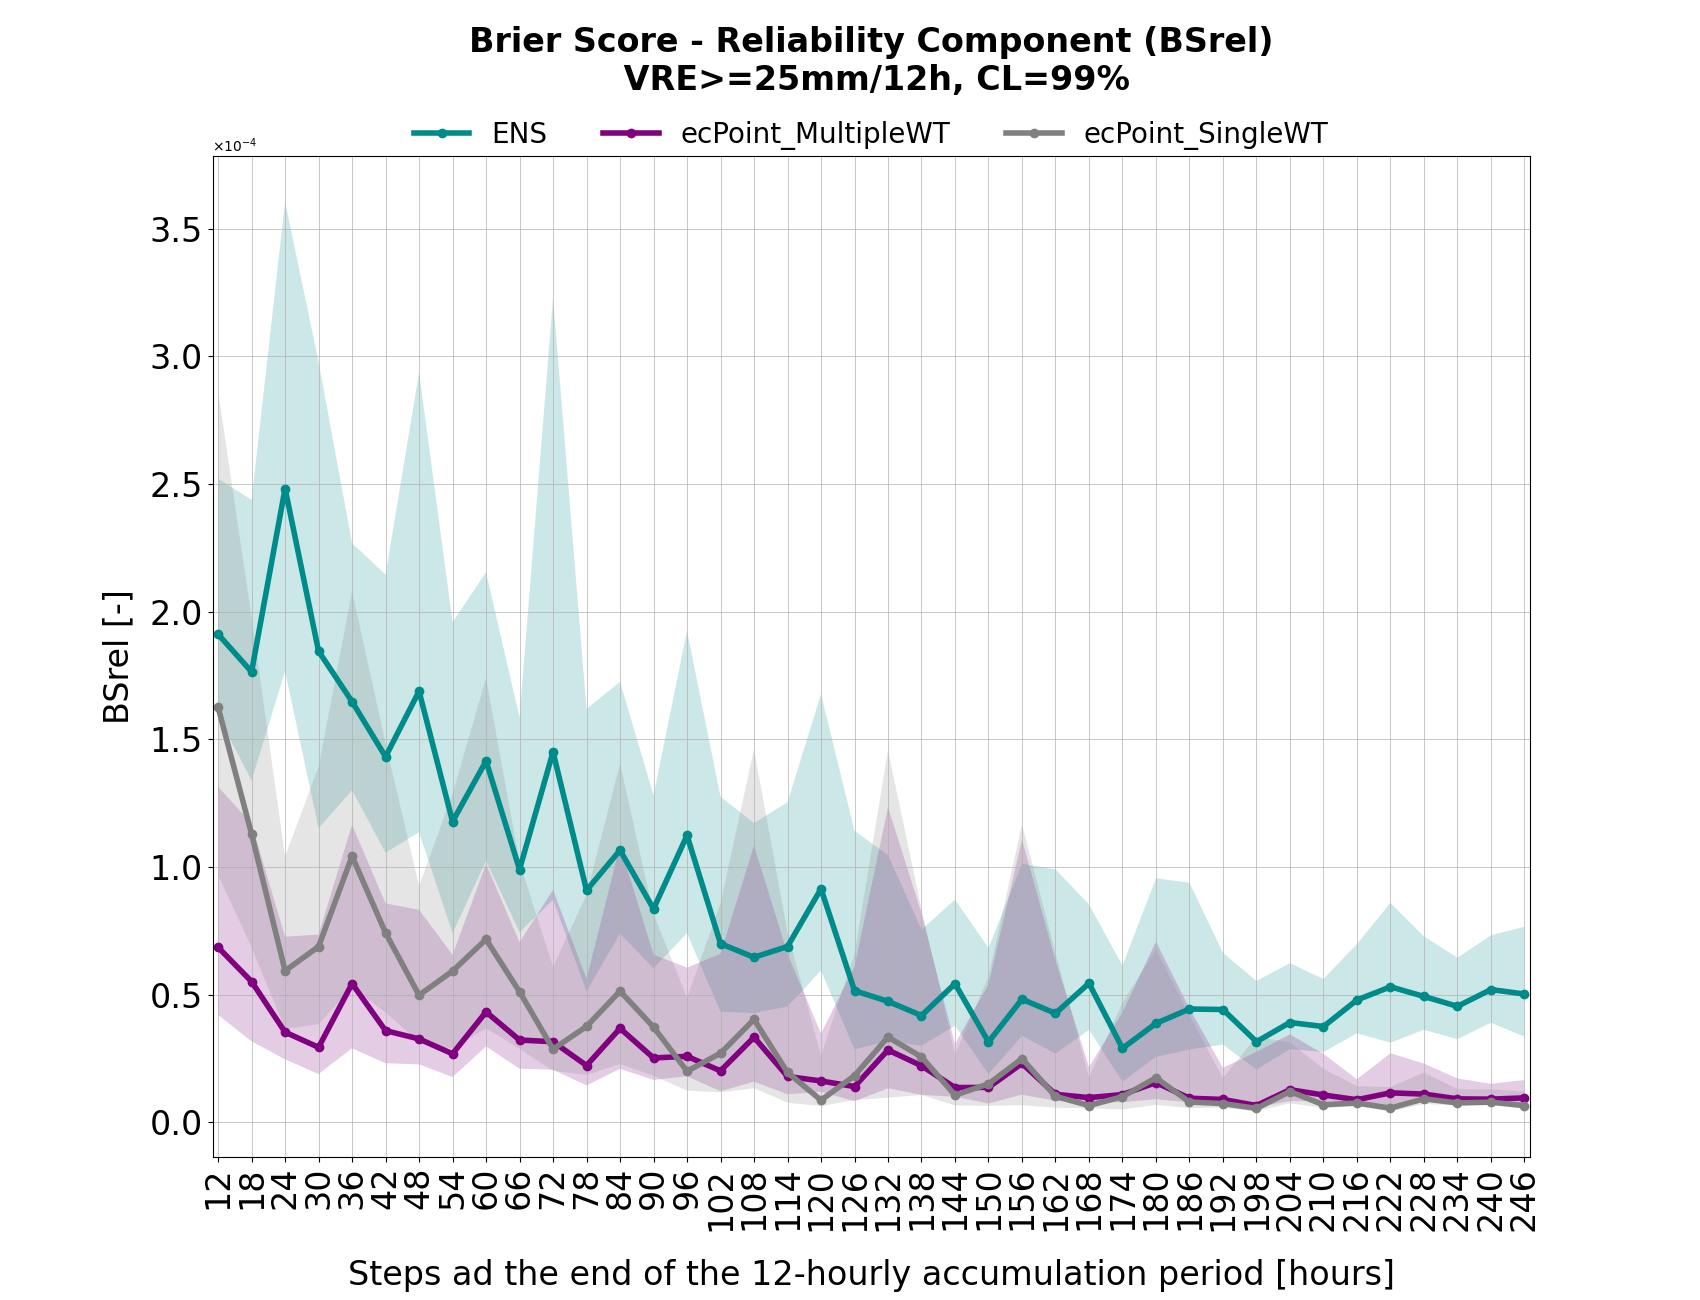
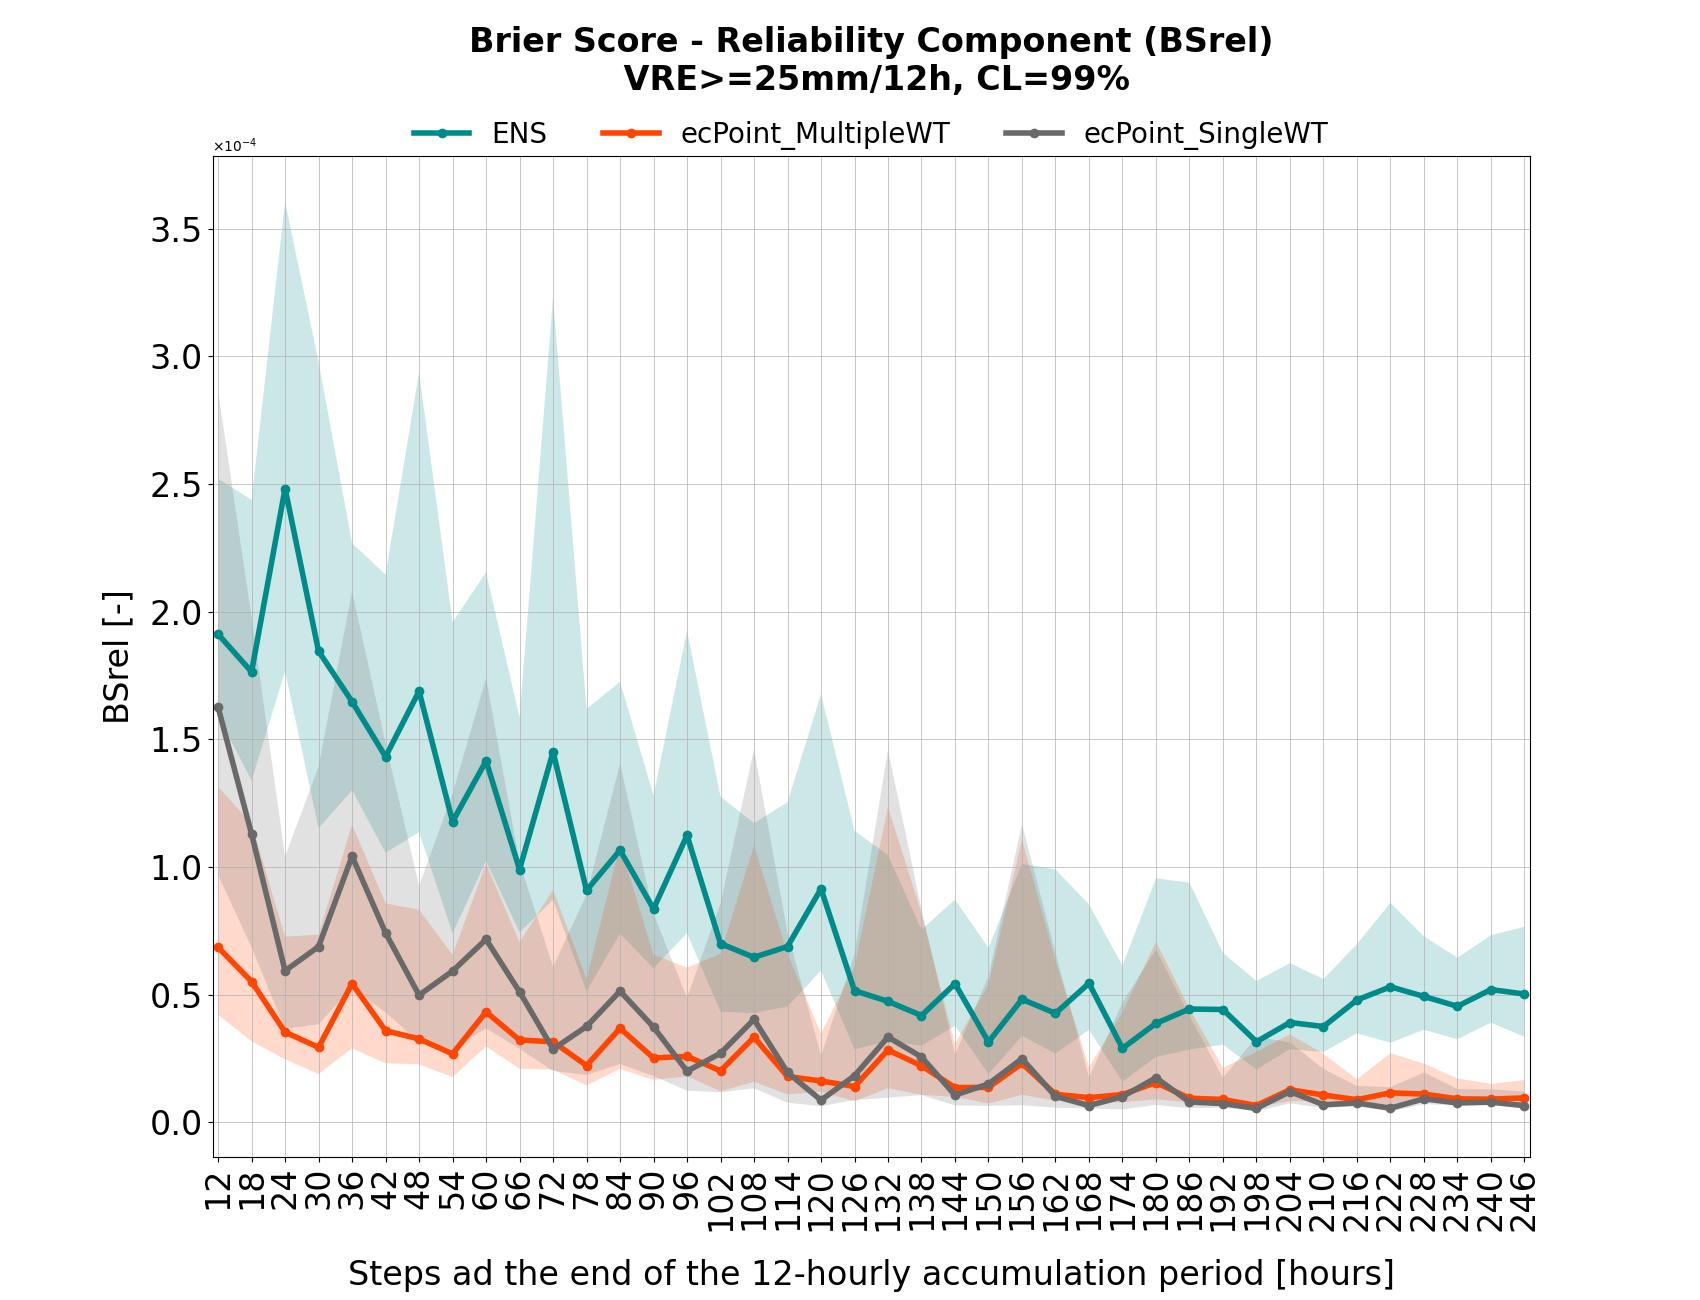
Improved the readibility of the AROC and BSrel plots.

Changed region(s): [[0.1247, 0.6154, 0.9041, 0.8615], [0.3429, 0.0923, 0.3741, 0.1231]]

diff --git a/Scripts/Processed/07_Plot_AROCt_AROCz_CI.py b/Scripts/Processed/07_Plot_AROCt_AROCz_CI.py
@@ -23,7 +23,7 @@ Acc = 12
 VRE_list = [0.2, 10, 25, 50]
 CL = 99
 SystemFC_list = ["ENS", "ecPoint_MultipleWT", "ecPoint_SingleWT"]
-Colour_SystemFC_list = ["darkcyan", "purple", "gray"]
+Colour_SystemFC_list = ["darkcyan", "orangered", "dimgray"]
 Git_repo = "/ec/vol/ecpoint_dev/mofp/Papers_2_Write/ECMWF_TM_Verif_ecPoint_SingleWT"
 DirIN = "Data/Compute/03_BSrel_AROCt_AROCz_BS"
 DirOUT = "Data/Plot/07_AROCt_AROCz_CI"
@@ -68,7 +68,7 @@ for vre in VRE_list:
 
             # Plotting the AROCt and AROCz values with their CI
             ax.plot(StepF, aroc, "o-", color=Colour_SystemFC, label="AROCt, " + SystemFC, linewidth=4)
-            ax.plot(StepF, arocz, "o--", color=Colour_SystemFC, label="AROCz, " + SystemFC, linewidth=2)
+            ax.plot(StepF, arocz, "o--", color=Colour_SystemFC, label="AROCz, " + SystemFC, linewidth=4)
             ax.fill_between(StepF, CI_lower, CI_upper, color=Colour_SystemFC, alpha=0.2, edgecolor="none")
             ax.fill_between(StepF, CIz_lower, CIz_upper, color=Colour_SystemFC, alpha=0.2, edgecolor="none")
 

diff --git a/Scripts/Processed/06_Plot_BSrel_CI.py b/Scripts/Processed/06_Plot_BSrel_CI.py
@@ -24,7 +24,7 @@ Acc = 12
 VRE_list = [0.2, 10, 25, 50]
 CL = 99
 SystemFC_list = ["ENS", "ecPoint_MultipleWT", "ecPoint_SingleWT"]
-Colour_SystemFC_list = ["darkcyan", "purple", "grey"]
+Colour_SystemFC_list = ["darkcyan", "orangered", "dimgray"]
 Git_repo = "/ec/vol/ecpoint_dev/mofp/Papers_2_Write/ECMWF_TM_Verif_ecPoint_SingleWT"
 DirIN = "Data/Compute/03_BSrel_AROCt_AROCz_BS"
 DirOUT = "Data/Plot/06_BSrel_CI"
